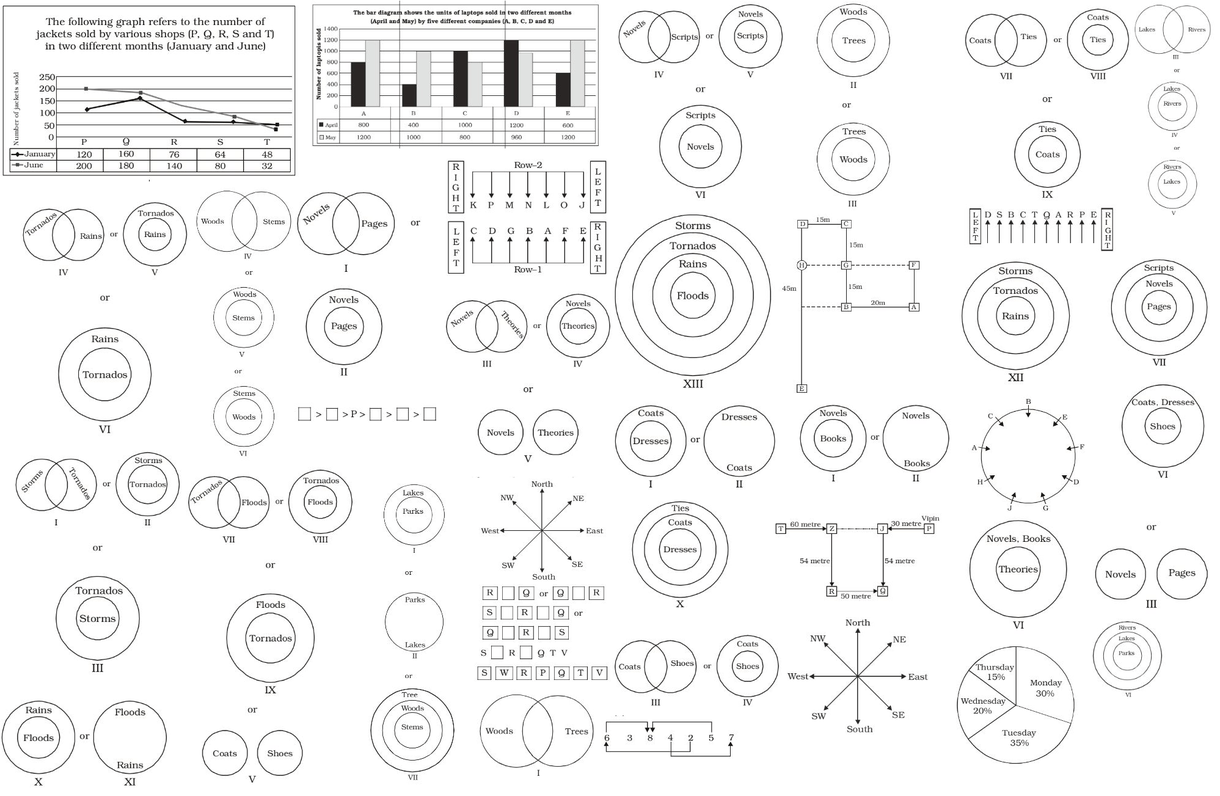
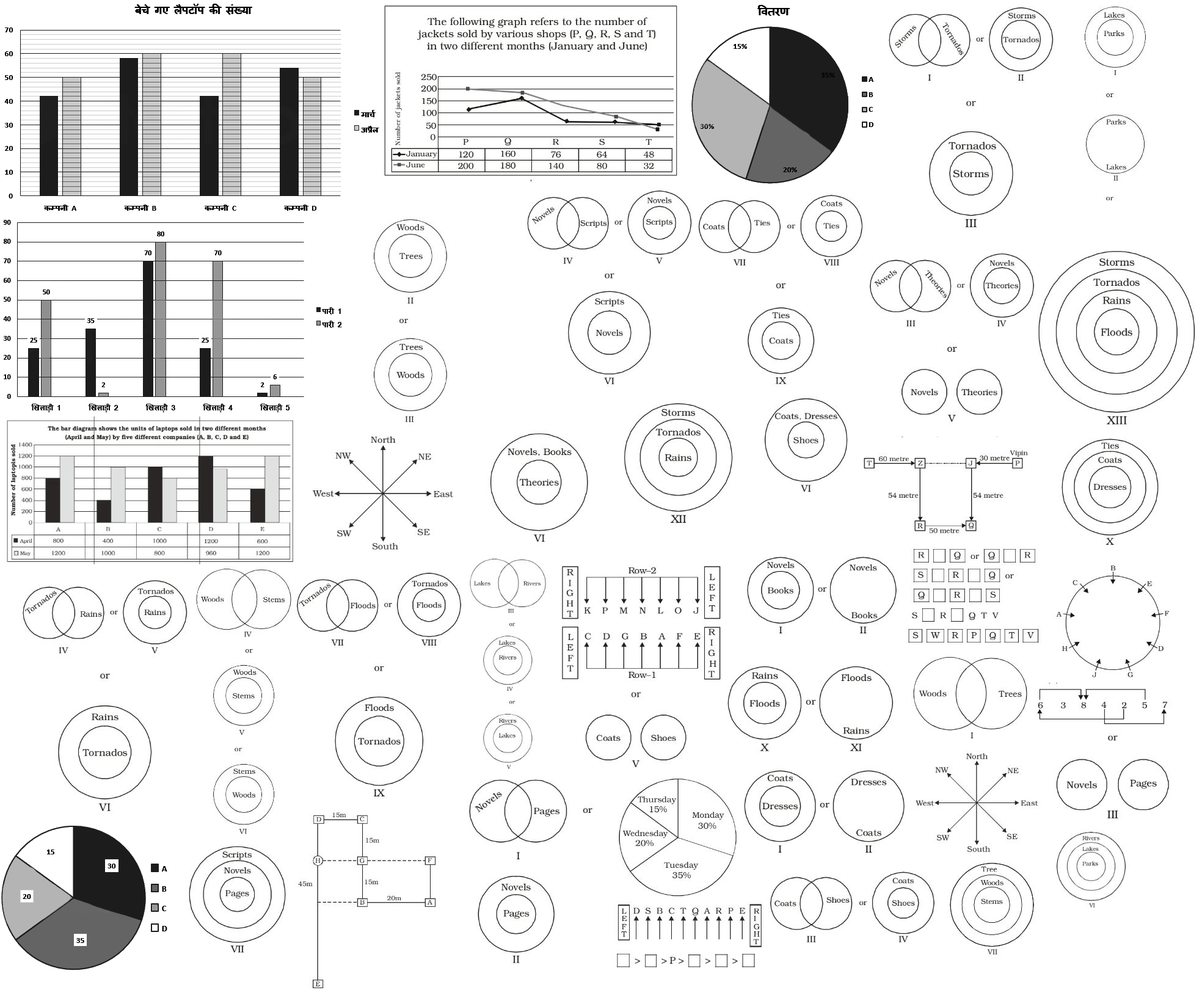
added

diff --git a/img/insurance/licaao/prev/licaao2019.css b/img/insurance/licaao/prev/licaao2019.css
@@ -8,121 +8,133 @@ Responsive: <div class="yourspritesname"></div>
 
 
 .LIC_AAO_04_05_2019_36_p {max-width:212px; max-height:206px; }
-.LIC_AAO_04_05_2019_36_p::after {content: '\00a0';display: inline-block; width:212px; height:206px; background-position: 87.22689075630252% 95.71558796718323%;background-size: 941.9811320754717% 632.5242718446602%;background-image: url(licaao2019.png);padding: 0; }
+.LIC_AAO_04_05_2019_36_p::after {content: '\00a0';display: inline-block; width:212px; height:206px; background-position: 57.1753986332574% 89.54063604240282%;background-size: 928.3018867924528% 786.8932038834952%;background-image: url(licaao2019.png);padding: 0; }
 div.LIC_AAO_04_05_2019_36_p::after {max-width:212px; width:100%;height:0;padding: 0 0 97.16981132075472% 0;}
 .LIC_AAO_04_05_2019_47_p {max-width:501px; max-height:242px; }
-.LIC_AAO_04_05_2019_47_p::after {content: '\00a0';display: inline-block; width:501px; height:242px; background-position: 33.48930481283423% 0.0942507068803016%;background-size: 398.6027944111776% 538.4297520661157%;background-image: url(licaao2019.png);padding: 0; }
+.LIC_AAO_04_05_2019_47_p::after {content: '\00a0';display: inline-block; width:501px; height:242px; background-position: 0.0681663258350375% 49.45612762871646%;background-size: 392.81437125748505% 669.8347107438017%;background-image: url(licaao2019.png);padding: 0; }
 div.LIC_AAO_04_05_2019_47_p::after {max-width:501px; width:100%;height:0;padding: 0 0 48.30339321357285% 0;}
 .LIC_AAO_04_05_2019_66_s {max-width:251px; max-height:79px; }
-.LIC_AAO_04_05_2019_66_s::after {content: '\00a0';display: inline-block; width:251px; height:79px; background-position: 90.4352806414662% 27.287581699346404%;background-size: 795.6175298804781% 1649.367088607595%;background-image: url(licaao2019.png);padding: 0; }
+.LIC_AAO_04_05_2019_66_s::after {content: '\00a0';display: inline-block; width:251px; height:79px; background-position: 58.47408270238789% 95.59014267185474%;background-size: 784.0637450199204% 2051.8987341772154%;background-image: url(licaao2019.png);padding: 0; }
 div.LIC_AAO_04_05_2019_66_s::after {max-width:251px; width:100%;height:0;padding: 0 0 31.47410358565737% 0;}
 .LIC_AAO_04_05_2019_71_s_1 {max-width:228px; max-height:172px; }
-.LIC_AAO_04_05_2019_71_s_1::after {content: '\00a0';display: inline-block; width:228px; height:172px; background-position: 43.866591294516674% 69.23076923076923%;background-size: 875.8771929824561% 757.5581395348837%;background-image: url(licaao2019.png);padding: 0; }
+.LIC_AAO_04_05_2019_71_s_1::after {content: '\00a0';display: inline-block; width:228px; height:172px; background-position: 85.51724137931035% 84.81711525189786%;background-size: 863.1578947368421% 942.4418604651163%;background-image: url(licaao2019.png);padding: 0; }
 div.LIC_AAO_04_05_2019_71_s_1::after {max-width:228px; width:100%;height:0;padding: 0 0 75.43859649122807% 0;}
 .LIC_AAO_04_05_2019_71_s_2 {max-width:273px; max-height:295px; }
-.LIC_AAO_04_05_2019_71_s_2::after {content: '\00a0';display: inline-block; width:273px; height:295px; background-position: 73.89791183294663% 34.72222222222222%;background-size: 731.5018315018315% 441.6949152542373%;background-image: url(licaao2019.png);padding: 0; }
+.LIC_AAO_04_05_2019_71_s_2::after {content: '\00a0';display: inline-block; width:273px; height:295px; background-position: 28.436578171091444% 99.92458521870286%;background-size: 720.8791208791209% 549.4915254237288%;background-image: url(licaao2019.png);padding: 0; }
 div.LIC_AAO_04_05_2019_71_s_2::after {max-width:273px; width:100%;height:0;padding: 0 0 108.05860805860806% 0;}
 .LIC_AAO_04_05_2019_74_s {max-width:240px; max-height:71px; }
-.LIC_AAO_04_05_2019_74_s::after {content: '\00a0';display: inline-block; width:240px; height:71px; background-position: 56.0045532157086% 95.0487012987013%;background-size: 832.0833333333334% 1835.2112676056338%;background-image: url(licaao2019.png);padding: 0; }
+.LIC_AAO_04_05_2019_74_s::after {content: '\00a0';display: inline-block; width:240px; height:71px; background-position: 98.0324074074074% 72.12903225806451%;background-size: 820% 2283.0985915492956%;background-image: url(licaao2019.png);padding: 0; }
 div.LIC_AAO_04_05_2019_74_s::after {max-width:240px; width:100%;height:0;padding: 0 0 29.583333333333332% 0;}
 .LIC_AAO_04_05_2019_86_s {max-width:224px; max-height:164px; }
-.LIC_AAO_04_05_2019_86_s::after {content: '\00a0';display: inline-block; width:224px; height:164px; background-position: 43.76762549351382% 83.9332748024583%;background-size: 891.5178571428571% 794.5121951219512%;background-image: url(licaao2019.png);padding: 0; }
+.LIC_AAO_04_05_2019_86_s::after {content: '\00a0';display: inline-block; width:224px; height:164px; background-position: 84.9770642201835% 61.42759094028826%;background-size: 878.5714285714286% 988.4146341463414%;background-image: url(licaao2019.png);padding: 0; }
 div.LIC_AAO_04_05_2019_86_s::after {max-width:224px; width:100%;height:0;padding: 0 0 73.21428571428571% 0;}
 .LIC_AAO_04_05_2019_92_s_1 {max-width:211px; max-height:168px; }
-.LIC_AAO_04_05_2019_92_s_1::after {content: '\00a0';display: inline-block; width:211px; height:168px; background-position: 43.22508398656215% 98.76651982378854%;background-size: 946.4454976303317% 775.5952380952381%;background-image: url(licaao2019.png);padding: 0; }
+.LIC_AAO_04_05_2019_92_s_1::after {content: '\00a0';display: inline-block; width:211px; height:168px; background-position: 84.34832100170746% 72.9525120440468%;background-size: 932.7014218009479% 964.8809523809524%;background-image: url(licaao2019.png);padding: 0; }
 div.LIC_AAO_04_05_2019_92_s_1::after {max-width:211px; width:100%;height:0;padding: 0 0 79.62085308056872% 0;}
 .LIC_AAO_04_05_2019_92_s_2 {max-width:286px; max-height:348px; }
-.LIC_AAO_04_05_2019_92_s_2::after {content: '\00a0';display: inline-block; width:286px; height:348px; background-position: 75.5113968439509% 0.10471204188481675%;background-size: 698.2517482517483% 374.42528735632186%;background-image: url(licaao2019.png);padding: 0; }
+.LIC_AAO_04_05_2019_92_s_2::after {content: '\00a0';display: inline-block; width:286px; height:348px; background-position: 33.70986920332937% 27.808326787117046%;background-size: 688.1118881118881% 465.8045977011494%;background-image: url(licaao2019.png);padding: 0; }
 div.LIC_AAO_04_05_2019_92_s_2::after {max-width:286px; width:100%;height:0;padding: 0 0 121.67832167832168% 0;}
 .LIC_AAO_04_05_2019_92_s_3 {max-width:169px; max-height:449px; }
-.LIC_AAO_04_05_2019_92_s_3::after {content: '\00a0';display: inline-block; width:169px; height:449px; background-position: 17.067833698030636% 35.831381733021075%;background-size: 1181.6568047337278% 290.20044543429844%;background-image: url(licaao2019.png);padding: 0; }
+.LIC_AAO_04_05_2019_92_s_3::after {content: '\00a0';display: inline-block; width:169px; height:449px; background-position: 17.34296831573096% 78.92491467576792%;background-size: 1164.4970414201184% 361.0244988864143%;background-image: url(licaao2019.png);padding: 0; }
 div.LIC_AAO_04_05_2019_92_s_3::after {max-width:169px; width:100%;height:0;padding: 0 0 265.6804733727811% 0;}
 .LIC_AAO_04_05_2019_92_s_4 {max-width:185px; max-height:176px; }
-.LIC_AAO_04_05_2019_92_s_4::after {content: '\00a0';display: inline-block; width:185px; height:176px; background-position: 32.33995584988963% 99.02395740905058%;background-size: 1079.4594594594594% 740.3409090909091%;background-image: url(licaao2019.png);padding: 0; }
+.LIC_AAO_04_05_2019_92_s_4::after {content: '\00a0';display: inline-block; width:185px; height:176px; background-position: 86.09085810431857% 97.0242214532872%;background-size: 1063.7837837837837% 921.0227272727273%;background-image: url(licaao2019.png);padding: 0; }
 div.LIC_AAO_04_05_2019_92_s_4::after {max-width:185px; width:100%;height:0;padding: 0 0 95.13513513513513% 0;}
 .LIC_AAO_04_05_2019_93_s_1 {max-width:189px; max-height:332px; }
-.LIC_AAO_04_05_2019_93_s_1::after {content: '\00a0';display: inline-block; width:189px; height:332px; background-position: 32.41150442477876% 80.63851699279094%;background-size: 1056.6137566137565% 392.4698795180723%;background-image: url(licaao2019.png);padding: 0; }
+.LIC_AAO_04_05_2019_93_s_1::after {content: '\00a0';display: inline-block; width:189px; height:332px; background-position: 97.47048903878583% 0.07757951900698215%;background-size: 1041.2698412698412% 488.2530120481928%;background-image: url(licaao2019.png);padding: 0; }
 div.LIC_AAO_04_05_2019_93_s_1::after {max-width:189px; width:100%;height:0;padding: 0 0 175.66137566137567% 0;}
 .LIC_AAO_04_05_2019_93_s_2 {max-width:144px; max-height:359px; }
-.LIC_AAO_04_05_2019_93_s_2::after {content: '\00a0';display: inline-block; width:144px; height:359px; background-position: 99.94603345925526% 0.1059322033898305%;background-size: 1386.8055555555557% 362.9526462395543%;background-image: url(licaao2019.png);padding: 0; }
+.LIC_AAO_04_05_2019_93_s_2::after {content: '\00a0';display: inline-block; width:144px; height:359px; background-position: 41.8859649122807% 71.94928684627575%;background-size: 1366.6666666666667% 451.53203342618383%;background-image: url(licaao2019.png);padding: 0; }
 div.LIC_AAO_04_05_2019_93_s_2::after {max-width:144px; width:100%;height:0;padding: 0 0 249.30555555555554% 0;}
 .LIC_AAO_04_05_2019_93_s_3 {max-width:144px; max-height:132px; }
-.LIC_AAO_04_05_2019_93_s_3::after {content: '\00a0';display: inline-block; width:144px; height:132px; background-position: 96.0604425256341% 86.42186165670367%;background-size: 1386.8055555555557% 987.1212121212121%;background-image: url(licaao2019.png);padding: 0; }
+.LIC_AAO_04_05_2019_93_s_3::after {content: '\00a0';display: inline-block; width:144px; height:132px; background-position: 94.3530701754386% 91.13498992612492%;background-size: 1366.6666666666667% 1228.030303030303%;background-image: url(licaao2019.png);padding: 0; }
 div.LIC_AAO_04_05_2019_93_s_3::after {max-width:144px; width:100%;height:0;padding: 0 0 91.66666666666667% 0;}
 .LIC_AAO_04_05_2019_96_s {max-width:251px; max-height:198px; }
-.LIC_AAO_04_05_2019_96_s::after {content: '\00a0';display: inline-block; width:251px; height:198px; background-position: 89.80526918671248% 58.46153846153846%;background-size: 795.6175298804781% 658.0808080808081%;background-image: url(licaao2019.png);padding: 0; }
+.LIC_AAO_04_05_2019_96_s::after {content: '\00a0';display: inline-block; width:251px; height:198px; background-position: 99.4175888177053% 64.58186929023191%;background-size: 784.0637450199204% 818.6868686868687%;background-image: url(licaao2019.png);padding: 0; }
 div.LIC_AAO_04_05_2019_96_s::after {max-width:251px; width:100%;height:0;padding: 0 0 78.88446215139442% 0;}
 .LIC_AAO_05_05_2019_31_p {max-width:499px; max-height:304px; }
-.LIC_AAO_05_05_2019_31_p::after {content: '\00a0';display: inline-block; width:499px; height:304px; background-position: 0.06675567423230974% 0.1001001001001001%;background-size: 400.2004008016032% 428.61842105263156%;background-image: url(licaao2019.png);padding: 0; }
+.LIC_AAO_05_05_2019_31_p::after {content: '\00a0';display: inline-block; width:499px; height:304px; background-position: 42.614023144996594% 0.07593014426727411%;background-size: 394.3887775551102% 533.2236842105264%;background-image: url(licaao2019.png);padding: 0; }
 div.LIC_AAO_05_05_2019_31_p::after {max-width:499px; width:100%;height:0;padding: 0 0 60.921843687374746% 0;}
 .LIC_AAO_05_05_2019_66_s {max-width:280px; max-height:222px; }
-.LIC_AAO_05_05_2019_66_s::after {content: '\00a0';display: inline-block; width:280px; height:222px; background-position: 42.05008736167734% 22.571692876965773%;background-size: 713.2142857142857% 586.936936936937%;background-image: url(licaao2019.png);padding: 0; }
+.LIC_AAO_05_05_2019_66_s::after {content: '\00a0';display: inline-block; width:280px; height:222px; background-position: 53.850710900473935% 64.90350250178699%;background-size: 702.8571428571429% 730.1801801801802%;background-image: url(licaao2019.png);padding: 0; }
 div.LIC_AAO_05_05_2019_66_s::after {max-width:280px; width:100%;height:0;padding: 0 0 79.28571428571429% 0;}
 .LIC_AAO_05_05_2019_72_s_1 {max-width:270px; max-height:161px; }
-.LIC_AAO_05_05_2019_72_s_1::after {content: '\00a0';display: inline-block; width:270px; height:161px; background-position: 58.19339895773017% 56.830122591943955%;background-size: 739.6296296296297% 809.3167701863354%;background-image: url(licaao2019.png);padding: 0; }
+.LIC_AAO_05_05_2019_72_s_1::after {content: '\00a0';display: inline-block; width:270px; height:161px; background-position: 71.67255594817432% 85.41095890410959%;background-size: 728.8888888888889% 1006.8322981366459%;background-image: url(licaao2019.png);padding: 0; }
 div.LIC_AAO_05_05_2019_72_s_1::after {max-width:270px; width:100%;height:0;padding: 0 0 59.629629629629626% 0;}
 .LIC_AAO_05_05_2019_72_s_2 {max-width:278px; max-height:149px; }
-.LIC_AAO_05_05_2019_72_s_2::after {content: '\00a0';display: inline-block; width:278px; height:149px; background-position: 58.23152995927865% 88.47487001733103%;background-size: 718.3453237410072% 874.496644295302%;background-image: url(licaao2019.png);padding: 0; }
+.LIC_AAO_05_05_2019_72_s_2::after {content: '\00a0';display: inline-block; width:278px; height:149px; background-position: 74.31952662721893% 95.72010869565217%;background-size: 707.9136690647482% 1087.9194630872482%;background-image: url(licaao2019.png);padding: 0; }
 div.LIC_AAO_05_05_2019_72_s_2::after {max-width:278px; width:100%;height:0;padding: 0 0 53.597122302158276% 0;}
 .LIC_AAO_05_05_2019_72_s_3 {max-width:270px; max-height:135px; }
-.LIC_AAO_05_05_2019_72_s_3::after {content: '\00a0';display: inline-block; width:270px; height:135px; background-position: 16.270990156340474% 98.97260273972603%;background-size: 739.6296296296297% 965.1851851851852%;background-image: url(licaao2019.png);padding: 0; }
+.LIC_AAO_05_05_2019_72_s_3::after {content: '\00a0';display: inline-block; width:270px; height:135px; background-position: 53.533568904593636% 76.11036339165545%;background-size: 728.8888888888889% 1200.7407407407406%;background-image: url(licaao2019.png);padding: 0; }
 div.LIC_AAO_05_05_2019_72_s_3::after {max-width:270px; width:100%;height:0;padding: 0 0 50% 0;}
 .LIC_AAO_05_05_2019_72_s_4 {max-width:169px; max-height:187px; }
-.LIC_AAO_05_05_2019_72_s_4::after {content: '\00a0';display: inline-block; width:169px; height:187px; background-position: 99.56236323851203% 55.19713261648746%;background-size: 1181.6568047337278% 696.7914438502673%;background-image: url(licaao2019.png);padding: 0; }
+.LIC_AAO_05_05_2019_72_s_4::after {content: '\00a0';display: inline-block; width:169px; height:187px; background-position: 68.70483602001111% 44.56066945606695%;background-size: 1164.4970414201184% 866.8449197860963%;background-image: url(licaao2019.png);padding: 0; }
 div.LIC_AAO_05_05_2019_72_s_4::after {max-width:169px; width:100%;height:0;padding: 0 0 110.6508875739645% 0;}
 .LIC_AAO_05_05_2019_72_s_5 {max-width:272px; max-height:332px; }
-.LIC_AAO_05_05_2019_72_s_5::after {content: '\00a0';display: inline-block; width:272px; height:332px; background-position: 91.53623188405797% 0.10298661174047374%;background-size: 734.1911764705883% 392.4698795180723%;background-image: url(licaao2019.png);padding: 0; }
+.LIC_AAO_05_05_2019_72_s_5::after {content: '\00a0';display: inline-block; width:272px; height:332px; background-position: 67.39386792452831% 23.73933281613654%;background-size: 723.5294117647059% 488.2530120481928%;background-image: url(licaao2019.png);padding: 0; }
 div.LIC_AAO_05_05_2019_72_s_5::after {max-width:272px; width:100%;height:0;padding: 0 0 122.05882352941177% 0;}
 .LIC_AAO_05_05_2019_72_s_6 {max-width:255px; max-height:209px; }
-.LIC_AAO_05_05_2019_72_s_6::after {content: '\00a0';display: inline-block; width:255px; height:209px; background-position: 57.69230769230769% 74.13162705667276%;background-size: 783.1372549019608% 623.444976076555%;background-image: url(licaao2019.png);padding: 0; }
+.LIC_AAO_05_05_2019_72_s_6::after {content: '\00a0';display: inline-block; width:255px; height:209px; background-position: 99.76649153531815% 50.212464589235125%;background-size: 771.7647058823529% 775.5980861244019%;background-image: url(licaao2019.png);padding: 0; }
 div.LIC_AAO_05_05_2019_72_s_6::after {max-width:255px; width:100%;height:0;padding: 0 0 81.96078431372548% 0;}
 .LIC_AAO_05_05_2019_73_s_1 {max-width:302px; max-height:399px; }
-.LIC_AAO_05_05_2019_73_s_1::after {content: '\00a0';display: inline-block; width:302px; height:399px; background-position: 0.058997050147492625% 80.64159292035399%;background-size: 661.2582781456954% 326.56641604010025%;background-image: url(licaao2019.png);padding: 0; }
+.LIC_AAO_05_05_2019_73_s_1::after {content: '\00a0';display: inline-block; width:302px; height:399px; background-position: 85.89435774309725% 0.08183306055646482%;background-size: 651.6556291390729% 406.265664160401%;background-image: url(licaao2019.png);padding: 0; }
 div.LIC_AAO_05_05_2019_73_s_1::after {max-width:302px; width:100%;height:0;padding: 0 0 132.11920529801324% 0;}
 .LIC_AAO_05_05_2019_73_s_2 {max-width:310px; max-height:422px; }
-.LIC_AAO_05_05_2019_73_s_2::after {content: '\00a0';display: inline-block; width:310px; height:422px; background-position: 0.05927682276229994% 34.73325766174801%;background-size: 644.1935483870968% 308.76777251184836%;background-image: url(licaao2019.png);padding: 0; }
+.LIC_AAO_05_05_2019_73_s_2::after {content: '\00a0';display: inline-block; width:310px; height:422px; background-position: 0.06031363088057901% 77.14762301918265%;background-size: 634.8387096774194% 384.1232227488152%;background-image: url(licaao2019.png);padding: 0; }
 div.LIC_AAO_05_05_2019_73_s_2::after {max-width:310px; width:100%;height:0;padding: 0 0 136.1290322580645% 0;}
 .LIC_AAO_05_05_2019_73_s_3 {max-width:281px; max-height:399px; }
-.LIC_AAO_05_05_2019_73_s_3::after {content: '\00a0';display: inline-block; width:281px; height:399px; background-position: 17.715617715617714% 83.6283185840708%;background-size: 710.6761565836299% 326.56641604010025%;background-image: url(licaao2019.png);padding: 0; }
+.LIC_AAO_05_05_2019_73_s_3::after {content: '\00a0';display: inline-block; width:281px; height:399px; background-position: 28.571428571428573% 75.69558101472995%;background-size: 700.355871886121% 406.265664160401%;background-image: url(licaao2019.png);padding: 0; }
 div.LIC_AAO_05_05_2019_73_s_3::after {max-width:281px; width:100%;height:0;padding: 0 0 141.99288256227757% 0;}
 .LIC_AAO_05_05_2019_73_s_4 {max-width:279px; max-height:173px; }
-.LIC_AAO_05_05_2019_73_s_4::after {content: '\00a0';display: inline-block; width:279px; height:173px; background-position: 0.05820721769499418% 99.91150442477876%;background-size: 715.7706093189964% 753.179190751445%;background-image: url(licaao2019.png);padding: 0; }
+.LIC_AAO_05_05_2019_73_s_4::after {content: '\00a0';display: inline-block; width:279px; height:173px; background-position: 70.4558910597987% 74.10220994475138%;background-size: 705.3763440860215% 936.9942196531792%;background-image: url(licaao2019.png);padding: 0; }
 div.LIC_AAO_05_05_2019_73_s_4::after {max-width:279px; width:100%;height:0;padding: 0 0 62.007168458781365% 0;}
 .LIC_AAO_05_05_2019_73_s_5 {max-width:239px; max-height:231px; }
-.LIC_AAO_05_05_2019_73_s_5::after {content: '\00a0';display: inline-block; width:239px; height:231px; background-position: 88.05460750853243% 38.61940298507463%;background-size: 835.5648535564853% 564.069264069264%;background-image: url(licaao2019.png);padding: 0; }
+.LIC_AAO_05_05_2019_73_s_5::after {content: '\00a0';display: inline-block; width:239px; height:231px; background-position: 57.605552342394446% 46.47482014388489%;background-size: 823.4309623430962% 701.7316017316017%;background-image: url(licaao2019.png);padding: 0; }
 div.LIC_AAO_05_05_2019_73_s_5::after {max-width:239px; width:100%;height:0;padding: 0 0 96.65271966527196% 0;}
 .LIC_AAO_05_05_2019_73_s_6 {max-width:268px; max-height:307px; }
-.LIC_AAO_05_05_2019_73_s_6::after {content: '\00a0';display: inline-block; width:268px; height:307px; background-position: 58.126084441873914% 34.23694779116466%;background-size: 745.1492537313433% 424.4299674267101%;background-image: url(licaao2019.png);padding: 0; }
+.LIC_AAO_05_05_2019_73_s_6::after {content: '\00a0';display: inline-block; width:268px; height:307px; background-position: 99.94117647058823% 30.51750380517504%;background-size: 734.3283582089553% 528.0130293159609%;background-image: url(licaao2019.png);padding: 0; }
 div.LIC_AAO_05_05_2019_73_s_6::after {max-width:268px; width:100%;height:0;padding: 0 0 114.55223880597015% 0;}
 .LIC_AAO_05_05_2019_74_s_1 {max-width:239px; max-height:352px; }
-.LIC_AAO_05_05_2019_74_s_1::after {content: '\00a0';display: inline-block; width:239px; height:352px; background-position: 27.417519908987487% 32.17665615141956%;background-size: 835.5648535564853% 370.17045454545456%;background-image: url(licaao2019.png);padding: 0; }
+.LIC_AAO_05_05_2019_74_s_1::after {content: '\00a0';display: inline-block; width:239px; height:352px; background-position: 44.18739155581261% 99.92119779353821%;background-size: 823.4309623430962% 460.5113636363636%;background-image: url(licaao2019.png);padding: 0; }
 div.LIC_AAO_05_05_2019_74_s_1::after {max-width:239px; width:100%;height:0;padding: 0 0 147.28033472803347% 0;}
 .LIC_AAO_05_05_2019_74_s_2 {max-width:210px; max-height:166px; }
-.LIC_AAO_05_05_2019_74_s_2::after {content: '\00a0';display: inline-block; width:210px; height:166px; background-position: 99.6082820369334% 74.31838170624451%;background-size: 950.952380952381% 784.9397590361446%;background-image: url(licaao2019.png);padding: 0; }
+.LIC_AAO_05_05_2019_74_s_2::after {content: '\00a0';display: inline-block; width:210px; height:166px; background-position: 97.66780432309443% 81.78694158075601%;background-size: 937.1428571428571% 976.5060240963855%;background-image: url(licaao2019.png);padding: 0; }
 div.LIC_AAO_05_05_2019_74_s_2::after {max-width:210px; width:100%;height:0;padding: 0 0 79.04761904761905% 0;}
 .LIC_AAO_05_05_2019_74_s_3 {max-width:288px; max-height:339px; }
-.LIC_AAO_05_05_2019_74_s_3::after {content: '\00a0';display: inline-block; width:288px; height:339px; background-position: 58.68929198361615% 0.1037344398340249%;background-size: 693.4027777777778% 384.36578171091446%;background-image: url(licaao2019.png);padding: 0; }
+.LIC_AAO_05_05_2019_74_s_3::after {content: '\00a0';display: inline-block; width:288px; height:339px; background-position: 50.833333333333336% 23.868954758190327%;background-size: 683.3333333333334% 478.17109144542775%;background-image: url(licaao2019.png);padding: 0; }
 div.LIC_AAO_05_05_2019_74_s_3::after {max-width:288px; width:100%;height:0;padding: 0 0 117.70833333333333% 0;}
 .LIC_AAO_05_05_2019_74_s_4 {max-width:200px; max-height:201px; }
-.LIC_AAO_05_05_2019_74_s_4::after {content: '\00a0';display: inline-block; width:200px; height:201px; background-position: 99.49916527545909% 37.56805807622504%;background-size: 998.5% 648.2587064676617%;background-image: url(licaao2019.png);padding: 0; }
+.LIC_AAO_05_05_2019_74_s_4::after {content: '\00a0';display: inline-block; width:200px; height:201px; background-position: 15.78054298642534% 96.83098591549296%;background-size: 984% 806.4676616915423%;background-image: url(licaao2019.png);padding: 0; }
 div.LIC_AAO_05_05_2019_74_s_4::after {max-width:200px; width:100%;height:0;padding: 0 0 100.5% 0;}
 .LIC_AAO_05_05_2019_75_s_1 {max-width:291px; max-height:177px; }
-.LIC_AAO_05_05_2019_75_s_1::after {content: '\00a0';display: inline-block; width:291px; height:177px; background-position: 74.79484173505276% 57.37122557726465%;background-size: 686.2542955326461% 736.1581920903955%;background-image: url(licaao2019.png);padding: 0; }
+.LIC_AAO_05_05_2019_75_s_1::after {content: '\00a0';display: inline-block; width:291px; height:177px; background-position: 70.96004770423374% 61.98060941828255%;background-size: 676.2886597938144% 915.819209039548%;background-image: url(licaao2019.png);padding: 0; }
 div.LIC_AAO_05_05_2019_75_s_1::after {max-width:291px; width:100%;height:0;padding: 0 0 60.824742268041234% 0;}
 .LIC_AAO_05_05_2019_75_s_2 {max-width:282px; max-height:315px; }
-.LIC_AAO_05_05_2019_75_s_2::after {content: '\00a0';display: inline-block; width:282px; height:315px; background-position: 42.09912536443149% 47.26720647773279%;background-size: 708.1560283687943% 413.6507936507937%;background-image: url(licaao2019.png);padding: 0; }
+.LIC_AAO_05_05_2019_75_s_2::after {content: '\00a0';display: inline-block; width:282px; height:315px; background-position: 83.98576512455516% 30.704441041347625%;background-size: 697.8723404255319% 514.6031746031746%;background-image: url(licaao2019.png);padding: 0; }
 div.LIC_AAO_05_05_2019_75_s_2::after {max-width:282px; width:100%;height:0;padding: 0 0 111.70212765957447% 0;}
 .LIC_AAO_05_05_2019_75_s_3 {max-width:215px; max-height:204px; }
-.LIC_AAO_05_05_2019_75_s_3::after {content: '\00a0';display: inline-block; width:215px; height:204px; background-position: 87.7665544332211% 76.88808007279344%;background-size: 928.8372093023256% 638.7254901960785%;background-image: url(licaao2019.png);padding: 0; }
+.LIC_AAO_05_05_2019_75_s_3::after {content: '\00a0';display: inline-block; width:215px; height:204px; background-position: 44.49515116942384% 49.61185603387438%;background-size: 915.3488372093024% 794.6078431372549%;background-image: url(licaao2019.png);padding: 0; }
 div.LIC_AAO_05_05_2019_75_s_3::after {max-width:215px; width:100%;height:0;padding: 0 0 94.88372093023256% 0;}
 .LIC_AAO_05_05_2019_76_s {max-width:239px; max-height:34px; }
-.LIC_AAO_05_05_2019_76_s::after {content: '\00a0';display: inline-block; width:239px; height:34px; background-position: 27.417519908987487% 51.930654058313635%;background-size: 835.5648535564853% 3832.3529411764707%;background-image: url(licaao2019.png);padding: 0; }
+.LIC_AAO_05_05_2019_76_s::after {content: '\00a0';display: inline-block; width:239px; height:34px; background-position: 58.068247541931754% 97.92060491493383%;background-size: 823.4309623430962% 4767.64705882353%;background-image: url(licaao2019.png);padding: 0; }
 div.LIC_AAO_05_05_2019_76_s::after {max-width:239px; width:100%;height:0;padding: 0 0 14.225941422594142% 0;}
 .LIC_AAO_05_05_2019_79_s_1 {max-width:302px; max-height:177px; }
-.LIC_AAO_05_05_2019_79_s_1::after {content: '\00a0';display: inline-block; width:302px; height:177px; background-position: 74.3952802359882% 73.17939609236234%;background-size: 661.2582781456954% 736.1581920903955%;background-image: url(licaao2019.png);padding: 0; }
+.LIC_AAO_05_05_2019_79_s_1::after {content: '\00a0';display: inline-block; width:302px; height:177px; background-position: 84.3937575030012% 49.65373961218837%;background-size: 651.6556291390729% 915.819209039548%;background-image: url(licaao2019.png);padding: 0; }
 div.LIC_AAO_05_05_2019_79_s_1::after {max-width:302px; width:100%;height:0;padding: 0 0 58.609271523178805% 0;}
 .LIC_AAO_05_05_2019_79_s_2 {max-width:276px; max-height:204px; }
-.LIC_AAO_05_05_2019_79_s_2::after {content: '\00a0';display: inline-block; width:276px; height:204px; background-position: 74.37536316095293% 91.17379435850773%;background-size: 723.5507246376811% 638.7254901960785%;background-image: url(licaao2019.png);padding: 0; }
+.LIC_AAO_05_05_2019_79_s_2::after {content: '\00a0';display: inline-block; width:276px; height:204px; background-position: 29.728132387706857% 49.61185603387438%;background-size: 713.0434782608696% 794.6078431372549%;background-image: url(licaao2019.png);padding: 0; }
 div.LIC_AAO_05_05_2019_79_s_2::after {max-width:276px; width:100%;height:0;padding: 0 0 73.91304347826087% 0;}
+.lic_aao_4_may_2019_s1_47_para {max-width:304px; max-height:304px; }
+.lic_aao_4_may_2019_s1_47_para::after {content: '\00a0';display: inline-block; width:304px; height:304px; background-position: 67.66826923076923% 0.07593014426727411%;background-size: 647.3684210526316% 533.2236842105264%;background-image: url(licaao2019.png);padding: 0; }
+div.lic_aao_4_may_2019_s1_47_para::after {max-width:304px; width:100%;height:0;padding: 0 0 100% 0;}
+.lic_aao_4_may_2019_s1_66_para {max-width:624px; max-height:352px; }
+.lic_aao_4_may_2019_s1_66_para::after {content: '\00a0';display: inline-block; width:624px; height:352px; background-position: 0.0744047619047619% 0.07880220646178093%;background-size: 315.38461538461536% 460.5113636363636%;background-image: url(licaao2019.png);padding: 0; }
+div.lic_aao_4_may_2019_s1_66_para::after {max-width:624px; width:100%;height:0;padding: 0 0 56.41025641025641% 0;}
+.lic_aao_4_may_2019_s2_51_para {max-width:565px; max-height:327px; }
+.lic_aao_4_may_2019_s2_51_para::after {content: '\00a0';display: inline-block; width:565px; height:327px; background-position: 0.07127583749109052% 27.357032457496135%;background-size: 348.3185840707965% 495.71865443425077%;background-image: url(licaao2019.png);padding: 0; }
+div.lic_aao_4_may_2019_s2_51_para::after {max-width:565px; width:100%;height:0;padding: 0 0 57.876106194690266% 0;}
+.lic_aao_4_may_2019_s2_71_para {max-width:277px; max-height:243px; }
+.lic_aao_4_may_2019_s2_71_para::after {content: '\00a0';display: inline-block; width:277px; height:243px; background-position: 0.05913660555884092% 97.82293178519593%;background-size: 710.4693140794224% 667.0781893004115%;background-image: url(licaao2019.png);padding: 0; }
+div.lic_aao_4_may_2019_s2_71_para::after {max-width:277px; width:100%;height:0;padding: 0 0 87.72563176895306% 0;}
 
-/* $TexturePacker:SmartUpdate:cd6ebf6066057ae7a90ec54c613ec988:7111679e78bcfe85af311e26a9b0ef61:1c861f8d32128b16179914a9a06782c5$ */
+/* $TexturePacker:SmartUpdate:14f6a1cf87020832fe3394b22be9adea:b38bf8c288d6b1ec7f18cb46c7910a8f:1c861f8d32128b16179914a9a06782c5$ */

diff --git a/img/insurance/licaao/prev/licaao2021.css b/img/insurance/licaao/prev/licaao2021.css
@@ -1,0 +1,14 @@
+/*
+-------------------------------------------------------------------
+Created with TexturePacker https://www.codeandweb.com/texturepacker
+-------------------------------------------------------------------
+Inline:     <i class="yourspritesname"></i>
+Responsive: <div class="yourspritesname"></div>
+*/
+
+
+.lic_aao_28_aug_2021_s1_66_para {max-width:488px; max-height:274px; }
+.lic_aao_28_aug_2021_s1_66_para::after {content: '\00a0';display: inline-block; width:488px; height:274px; background-position: 50% 50%;background-size: 100.40983606557377% 100.72992700729927%;background-image: url(licaao2021.png);padding: 0; }
+div.lic_aao_28_aug_2021_s1_66_para::after {max-width:488px; width:100%;height:0;padding: 0 0 56.14754098360656% 0;}
+
+/* $TexturePacker:SmartUpdate:55ba4abc1a98077e91edb4b0589d8763:c43152ac19ff2a54095707c3006bde7b:44dbaa58878f7cdb77cbbfe837a35f26$ */
